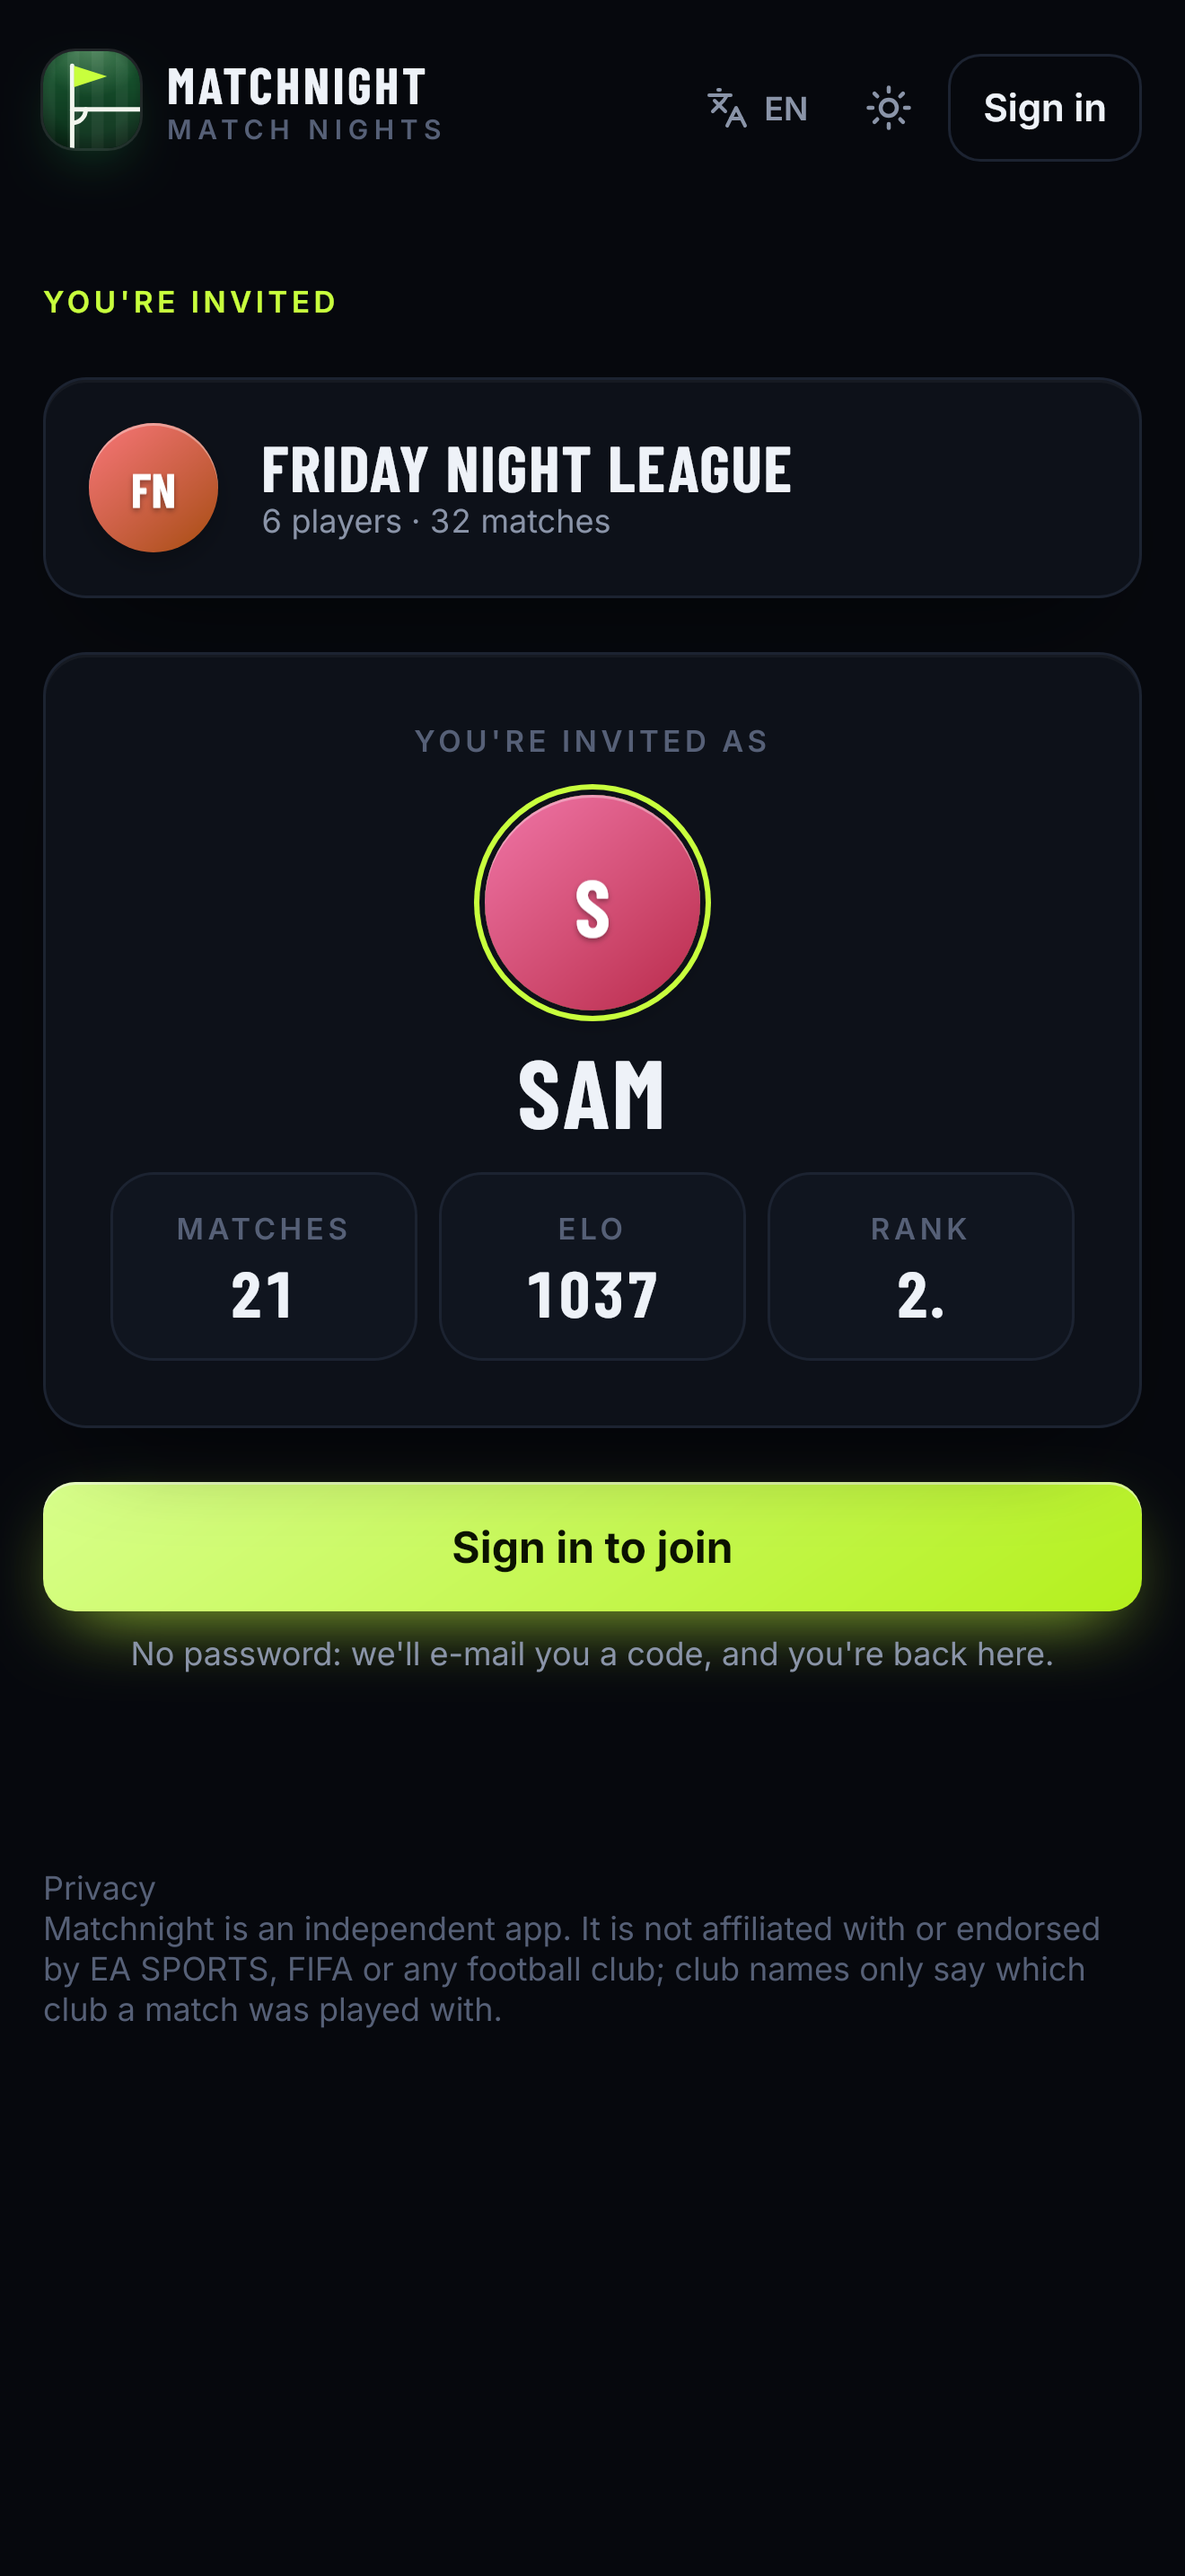
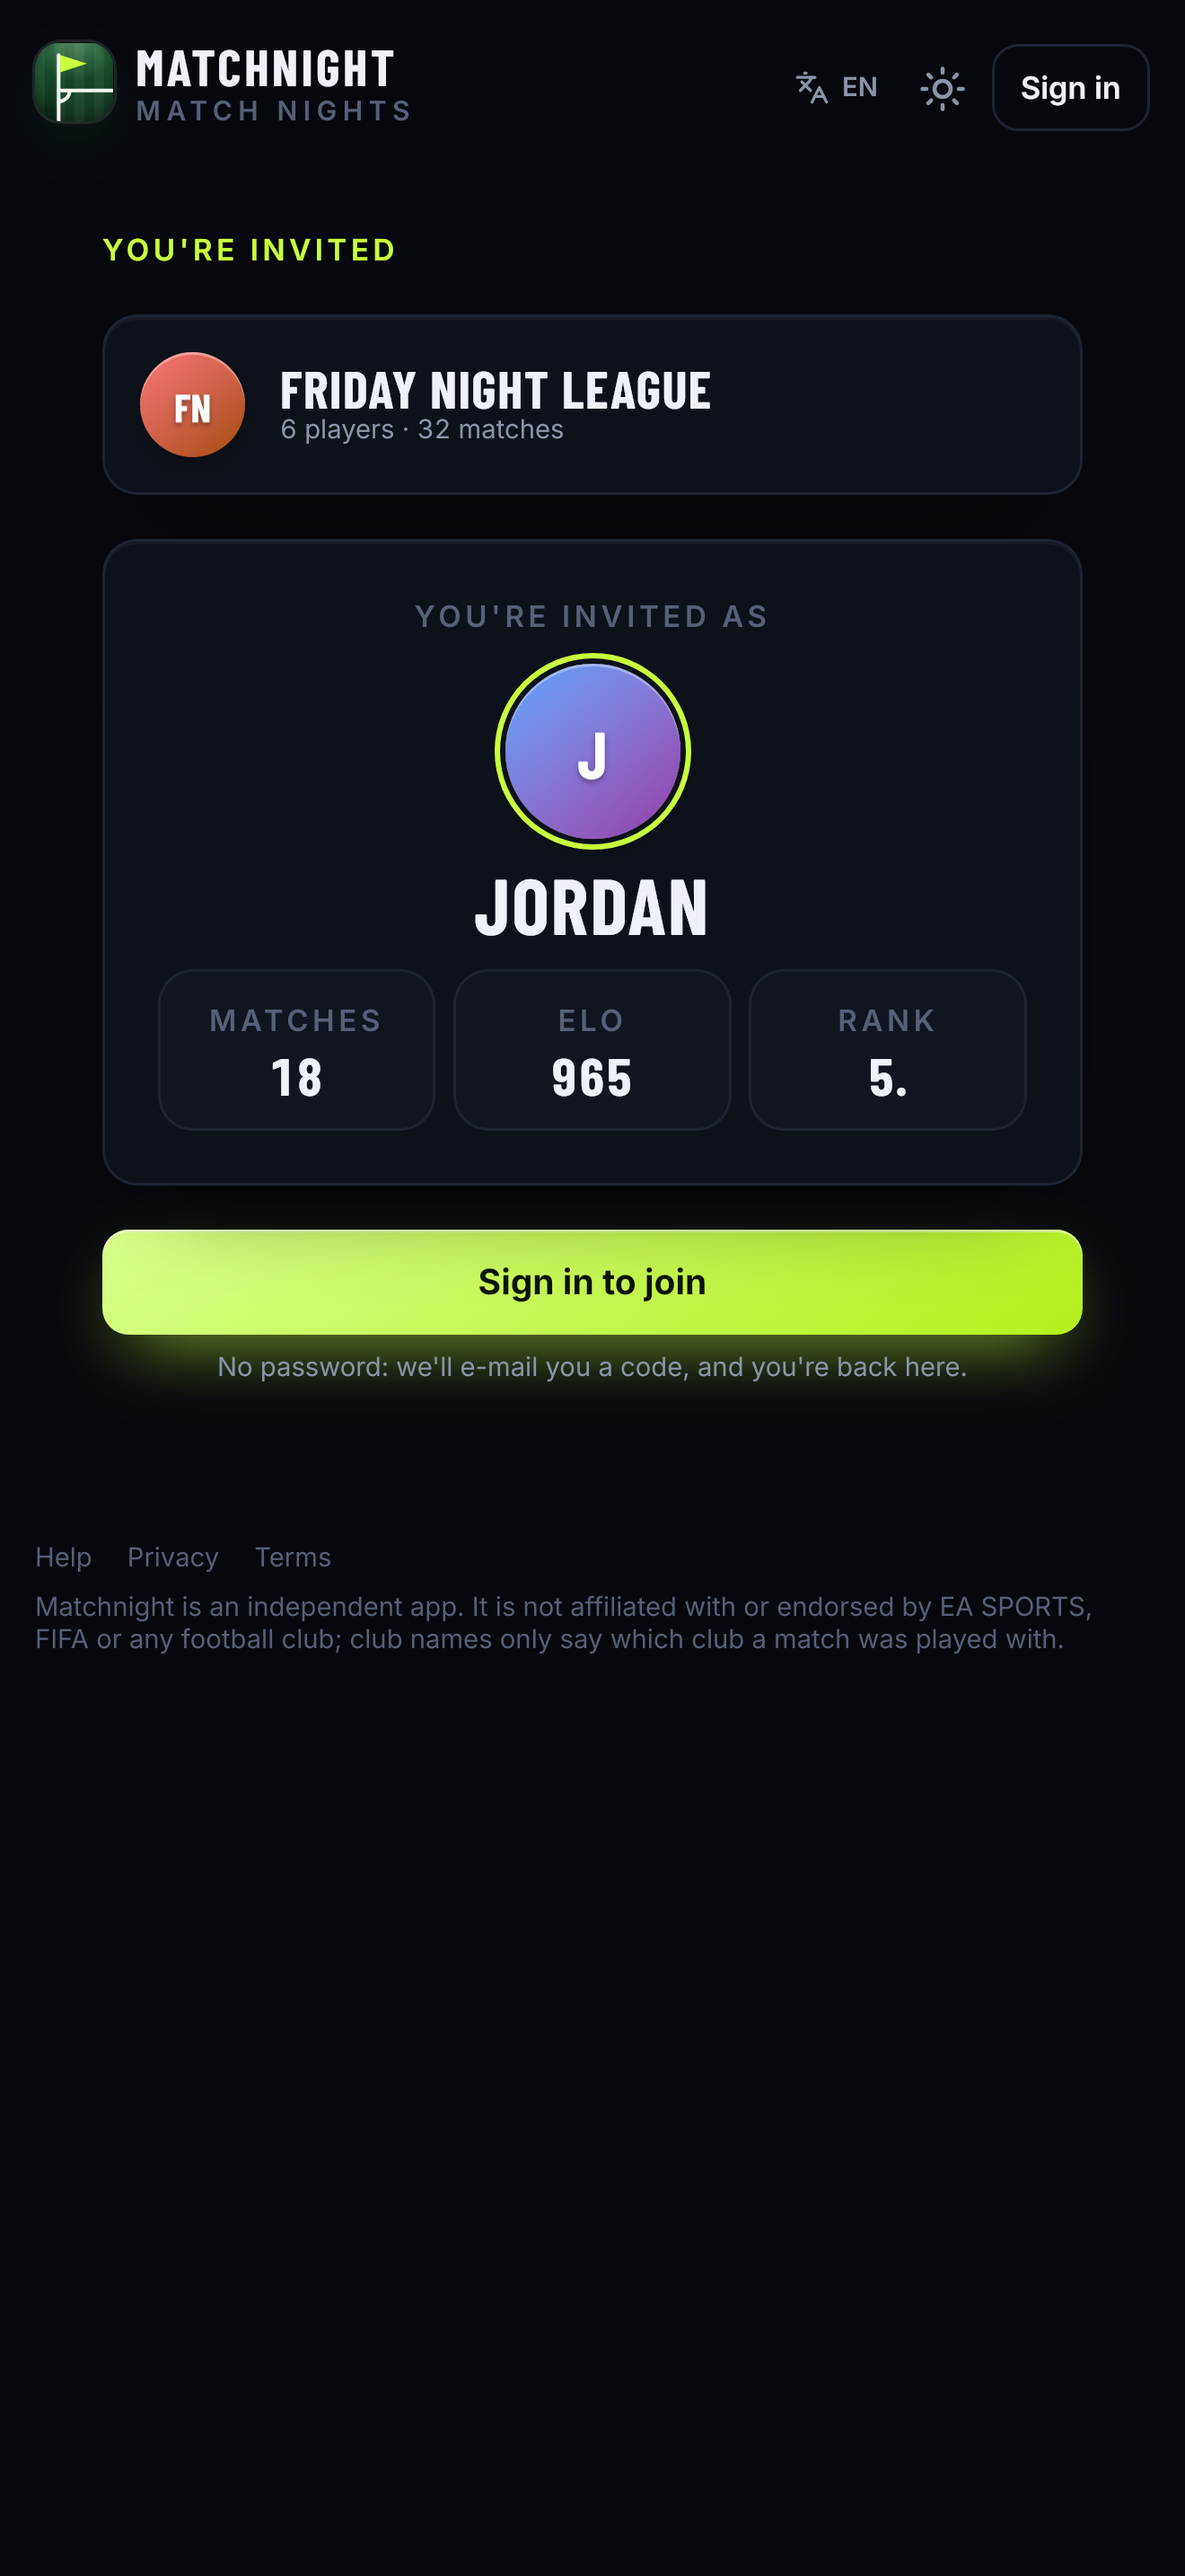
App Store screenshots at the size phones now start at
Taken again from the store build against a scratch API, at the 81.25%
phones start at since #69. The capture script agrees to the terms first,
invites Jordan instead of Sam (who has an account now), and leaves the
independence note out of its trademark check.

diff --git a/docs/app-store/screenshots/README.md b/docs/app-store/screenshots/README.md
@@ -10,8 +10,8 @@ Turkish (`tr/`) and English (`en/`):
 5. Night Post
 6. An invite, before signing in
 
-They are the **store** edition (shirts instead of crests, no game data, season "2026–27") with
-made-up players and matches. No real data was used: `deploy/review-league.py` seeded a scratch API.
+They are the **store** edition (shirts instead of crests, no game data, season "2026–27") at the size
+phones start at (81.25%, `frontend/src/hooks/useUiScale.ts`), with made-up players and matches. No real data was used: `deploy/review-league.py` seeded a scratch API.
 The small print at the foot of 2 and 6 is the store edition's "not affiliated with EA SPORTS, FIFA or
 any club" note.
 
@@ -29,4 +29,6 @@ To make them again:
 
 4. Run `capture.mjs` in `mcr.microsoft.com/playwright:v1.57.0-noble` on that network (WebKit, 440×956 at
    3×). It checks every screen for crests, "FC27", "fut.gg" and "FIFA", and reloads a screen when
-   headless WebKit leaves an entrance animation invisible.
+   headless WebKit leaves an entrance animation invisible on screen. The demo account agrees to the terms
+   first, as App Review will, and the invite is Jordan's (Sam has an account, for Block). The
+   independence note is left out of the check: it names EA SPORTS and FIFA on purpose.
